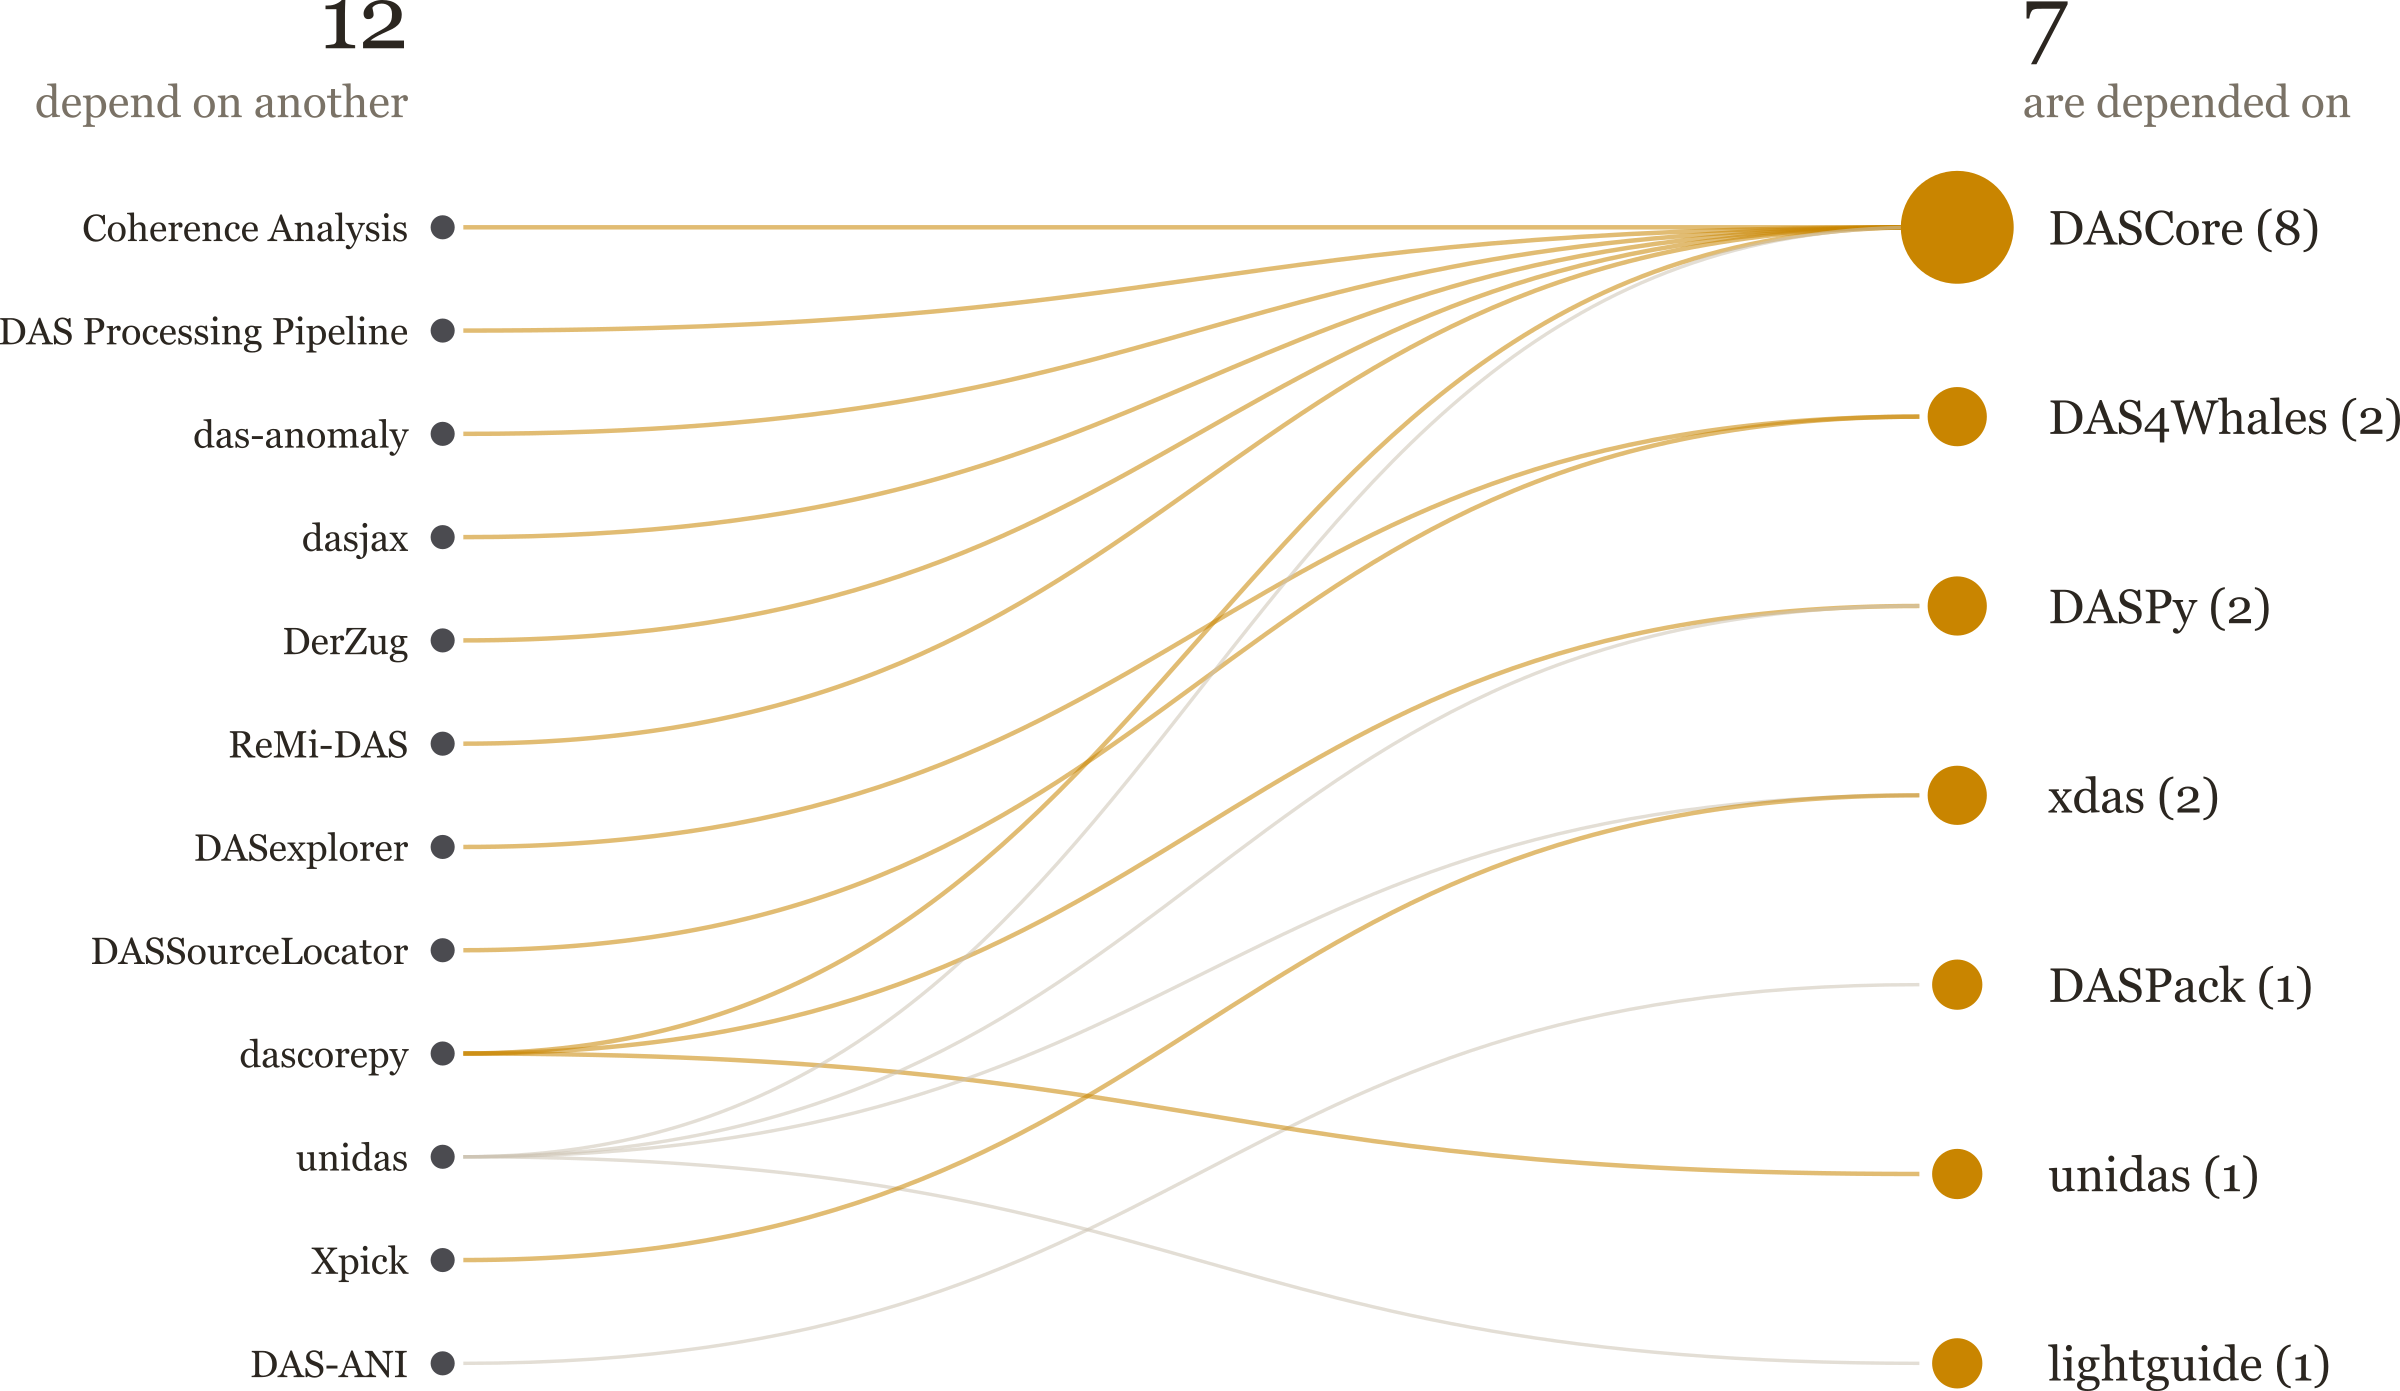
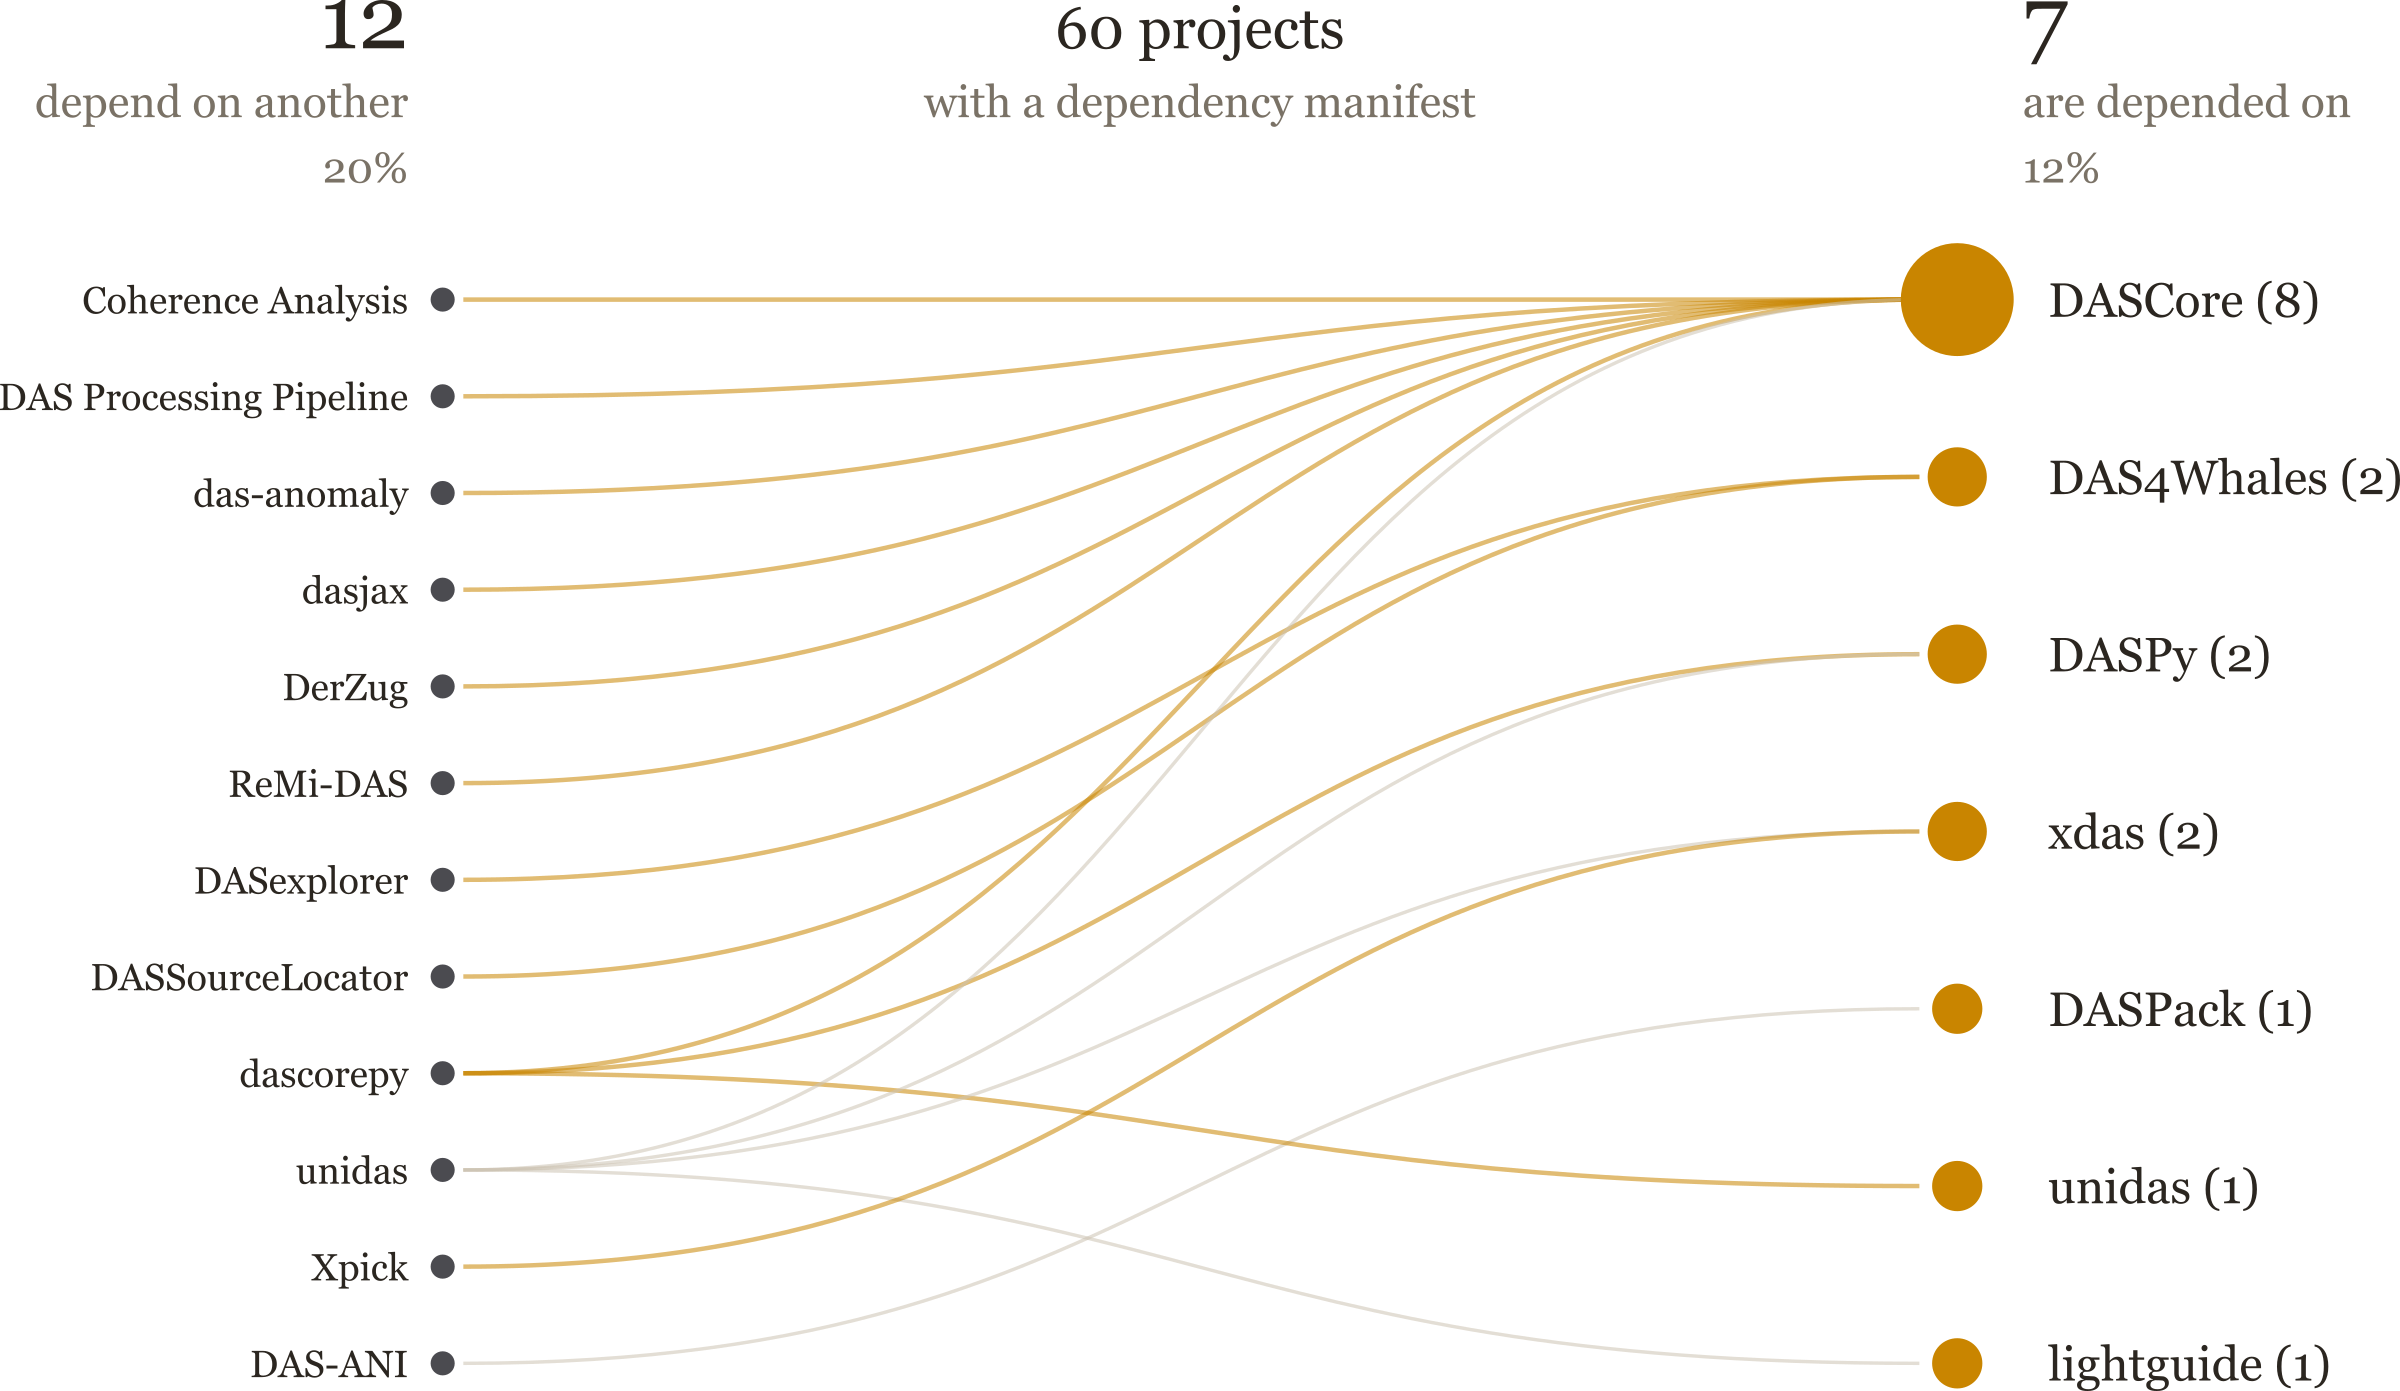
update

diff --git a/deck/ineris.css b/deck/ineris.css
@@ -96,6 +96,15 @@
   border-bottom: 6px solid transparent;
 }
 
+/* A tick where each label meets the axis, so a logo is grouped with its
+   licence by proximity to a mark rather than by hovering over a word. */
+.reveal .axis-tick {
+  position: absolute;
+  width: 2px;
+  background: #000091;
+  z-index: 2;
+}
+
 /* Figures carry the identity; centre them and let them breathe. */
 .reveal section img { display: block; margin: 0 auto; background: transparent; }
 .reveal .slide figure { text-align: center; }
@@ -103,7 +112,7 @@
 /* Captions on the logo-axis slides. */
 .reveal .axis-label {
   font-size: 0.95em;
-  color: #7a7266;
+  color: #4a443c;
   display: block;
   text-align: center;
   line-height: 1.25;
@@ -125,6 +134,19 @@
   color: #7a7266;
   margin-top: 0.5em;
   word-break: break-all;
+}
+
+/* Two numbers said out loud, set over the empty half of a chart. Large,
+   because they are the point of the slide rather than a caption, and in the
+   deck's blue so they read as the speaker's voice and not as part of the
+   plate. */
+.reveal .chart-callout {
+  display: block;
+  text-align: center;
+  font-size: 2em;
+  font-weight: 700;
+  line-height: 1.35;
+  color: #000091;
 }
 
 /* The one gap with no candidate to show for it. Sized to carry a slide on its

diff --git a/src/oss_das/figures/plates.py b/src/oss_das/figures/plates.py
@@ -1639,13 +1639,17 @@ def network_plate(net: Network) -> str:
     """Which DAS projects are built on other DAS projects.
 
     Consumers on the left, the projects they build on down the right, ordered
-    by how many depend on them. Four projects appear on both sides -- a project
-    can be built on and still build on something else -- so the two columns are
-    a direction of travel, not a partition.
+    by how many depend on them. A project can be built on and still build on
+    something else, so a project can appear in both columns: the two are a
+    direction of travel, not a partition.
     """
     width, height = 1680, 940
     left_x, right_x = 300.0, 1180.0
-    top, bottom = 190.0, 850.0
+    # The header band runs to a third line now that each column carries its
+    # share, so the first row starts below it: at the old 190 the left share
+    # sat on the first consumer's name and the right one inside the hub's
+    # circle.
+    top, bottom = 232.0, 850.0
 
     consumers = list(net.consumers)
     providers = list(net.providers)
@@ -1654,22 +1658,51 @@ def network_plate(net: Network) -> str:
         height=height,
         title="What DAS software is built on",
         desc=(
-            f"{len(net.links)} declared dependencies among catalogued DAS "
-            f"projects. {net.connected} of {net.projects} are connected to "
-            f"another; {net.isolated} depend on none and are depended on by none."
+            f"{len(net.links)} declared dependencies among the {net.projects} "
+            "catalogued DAS projects that ship a dependency manifest. "
+            f"{net.connected} are connected to another; {net.isolated} depend "
+            "on none and are depended on by none."
         ),
     )
 
-    # Each column is headed by its own count: how many projects build on
-    # another, and how many are built on. Five projects are in both columns,
-    # so the two numbers deliberately do not sum to the connected total.
-    for x, number, label in (
-        (left_x - 20, f"{len(consumers)}", "depend on another"),
-        (right_x + 38, f"{len(providers)}", "are depended on"),
+    # Each column is headed by its own count and its share of the same
+    # denominator. A project built on while building on something else is in
+    # both columns, so the two counts deliberately do not sum to the connected
+    # total -- and neither share is a share of the other.
+    for x, count, label in (
+        (left_x - 20, len(consumers), "depend on another"),
+        (right_x + 38, len(providers), "are depended on"),
     ):
         anchor = "end" if x < right_x else "start"
-        c.text(x, 86, number, size=draw.MID, fill=draw.INK, anchor=anchor)
+        c.text(x, 86, f"{count}", size=draw.MID, fill=draw.INK, anchor=anchor)
         c.text(x, 126, label, size=26, fill=draw.MUTED, anchor=anchor)
+        c.text(
+            x,
+            164,
+            f"{round(100 * count / net.projects)}%",
+            size=draw.SUB,
+            fill=draw.MUTED,
+            anchor=anchor,
+        )
+
+    # The gate, between the two counts it is the denominator of. This deck
+    # counts projects three ways -- every catalogued project, every one that
+    # ships Python, every one that declares what it builds on -- and a reader
+    # who has to hold which is which cannot check the shares against anything.
+    # Smaller than the flanking numbers, because it is what they are measured
+    # against rather than a third measurement.
+    middle = (left_x + right_x) / 2
+    c.text(
+        middle, 86, f"{net.projects} projects", size=34, fill=draw.INK, anchor="middle"
+    )
+    c.text(
+        middle,
+        126,
+        "with a dependency manifest",
+        size=26,
+        fill=draw.MUTED,
+        anchor="middle",
+    )
 
     def row(index: int, count: int) -> float:
         if count < 2:

diff --git a/src/oss_das/figures/data.py b/src/oss_das/figures/data.py
@@ -1275,6 +1275,11 @@ class LanguagePlatform:
     hosts: tuple[tuple[str, int], ...]
 
     def sidecar(self) -> dict[str, Any]:
+        # The two shares the talk says out loud, rounded here rather than on a
+        # slide: a percentage typed into the deck goes stale the next time a
+        # project is added or excluded, and nothing catches it.
+        top_language = max(self.rows, key=lambda r: r.projects, default=None)
+        top_host = max(self.hosts, key=lambda h: h[1], default=None)
         return {
             "projects": self.projects,
             "hosts": dict(self.hosts),
@@ -1282,6 +1287,18 @@ class LanguagePlatform:
                 r.language: {"projects": r.projects, "by_host": dict(r.by_host)}
                 for r in self.rows
             },
+            "top_language": top_language.language if top_language else None,
+            "top_language_pct": (
+                round(top_language.projects / self.projects * 100)
+                if top_language and self.projects
+                else None
+            ),
+            "top_host": top_host[0] if top_host else None,
+            "top_host_pct": (
+                round(top_host[1] / self.projects * 100)
+                if top_host and self.projects
+                else None
+            ),
         }
 
 
@@ -1737,9 +1754,7 @@ def network_from_records() -> Network:
     registry = records.measured("registry")
     measured = records.measured("dependencies")
     included = {
-        pid
-        for pid in das_project_ids()
-        if (measured.get(pid) or {}).get("manifests")
+        pid for pid in das_project_ids() if (measured.get(pid) or {}).get("manifests")
     }
 
     alias: dict[str, str] = {}
